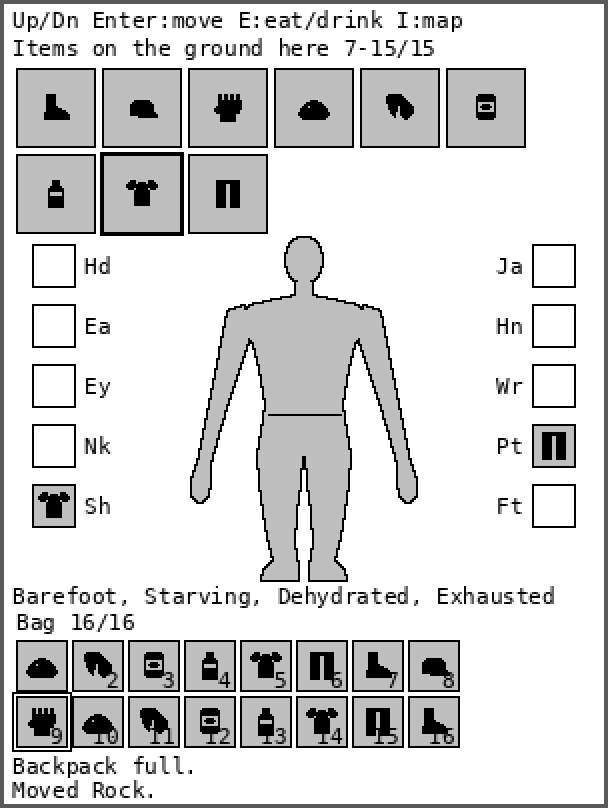
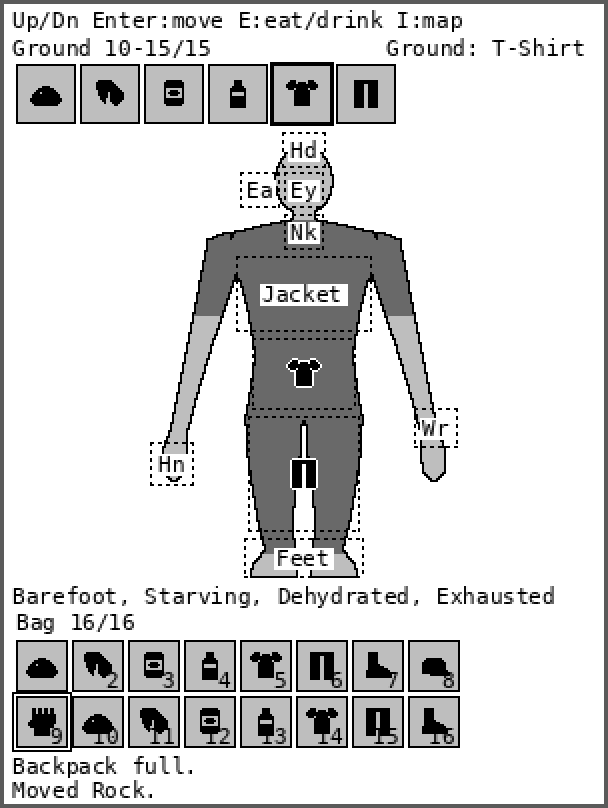
wasteland: NEO Scavenger-style paperdoll with slots on the body
Equip slots are now frames over the body part they dress instead of two
labelled columns beside the figure. Worn clothes are painted onto the
doll (shirt and sleeves, jeans, boots, cap, gloves) from a per-item
"wear" spec, and the item icon sits on top with a white halo. Empty
slots show their name. The figure is 25% larger with a bigger head;
the ground grid becomes one scrolling row to make room, and the item
under the cursor is named on the ground line. Left/right also step the
inventory cursor.

body_test now checks each slot sits on the body and no two slots touch.

Claude-Session: https://claude.ai/code/session_01B2S3WcfsAgHLdif2Kpvj91

diff --git a/examples/wasteland/tests/make_lib.py b/examples/wasteland/tests/make_lib.py
@@ -26,8 +26,8 @@ lib = src[:cut]
 # Layout constants as a table, so layout tests check the game's real numbers
 # instead of copies that go stale.
 (here / "lib_layout.lua").write_text(
-    lib + "\nreturn Game, {EQUIP_SLOTS = EQUIP_SLOTS, EQUIP_COL_X = EQUIP_COL_X, "
-          "EQUIP_ROW_Y = EQUIP_ROW_Y, EQUIP_BOX = EQUIP_BOX, "
+    lib + "\nreturn Game, {EQUIP_SLOTS = EQUIP_SLOTS, EQUIP_RECT = EQUIP_RECT, "
+          "BODY_BLOCKS = BODY_BLOCKS, PART_BLOCKS = PART_BLOCKS, "
           "GROUND_GRID_COLS = GROUND_GRID_COLS, GROUND_GRID_ROWS = GROUND_GRID_ROWS, "
           "GROUND_CELL = GROUND_CELL, GROUND_GAP = GROUND_GAP, GROUND_Y = GROUND_Y, "
           "BACKPACK_CAP = BACKPACK_CAP, BACKPACK_COLS = BACKPACK_COLS, "

diff --git a/examples/wasteland/HANDOFF.md b/examples/wasteland/HANDOFF.md
@@ -11,6 +11,8 @@
 > - **Checked against firmware source:** `gfx.KEY_UP/DOWN/LEFT/RIGHT/ESCAPE` exist (0x80–0x83, 0x1b); Enter arrives as `\n`; the Lua runtime does **not** load `os`, so the seed now comes from `solaros.time.uptime_ms()`; `require` is a shim for `solaros` only, so the app stays one file.
 > - Layout tests (`bounds_test`, `body_test`) now read the game's constants through the generated `lib_layout.lua` (gap 25 fixed).
 > - Still unverified on the device: everything since "it works!".
+>
+> **Paperdoll rework (same day, user asked for "slots overlay the body part, like NEO Scavenger"):** the two slot columns are gone. Each slot is a dashed frame *on* its body part (`EQUIP_RECT`); worn clothes are painted onto the figure via `ITEM_DB[...].wear` (part, row range, color) using per-part body blocks (`PART_BLOCKS`), and the item icon sits on top with a white halo. Empty slots show their name on a white tag. The figure is 1.25× bigger (`BODY_SCALE`) with a larger head; to make room the ground grid is one scrolling row of 9 × 30px cells. The cursor's item is named on the "Ground" line. Left/right also step the cursor on this screen. `body_test` now checks every slot is on the body and no two slots touch. Only 5 slots have items that fit (head/hands/shirt/pants/feet); ears/eyes/neck/jacket/wrists still have none.
 
 ---
 
